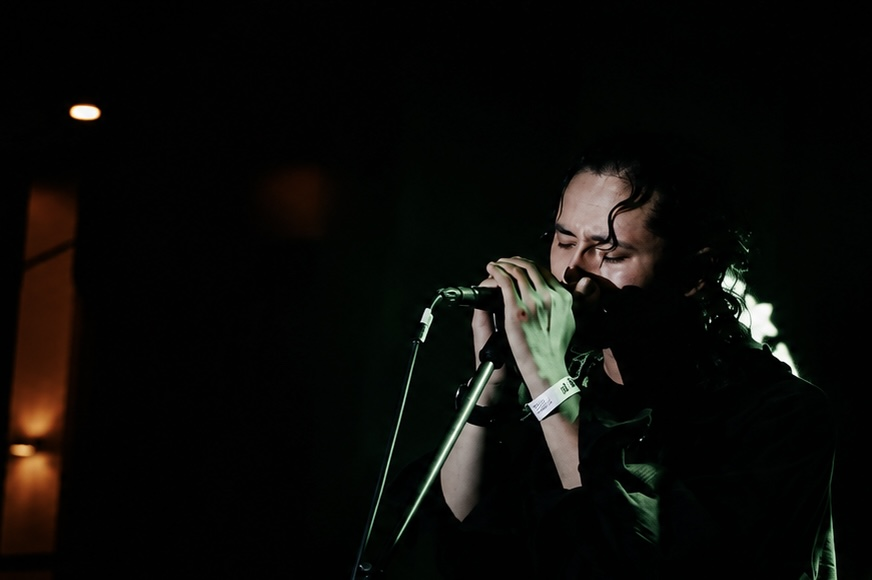
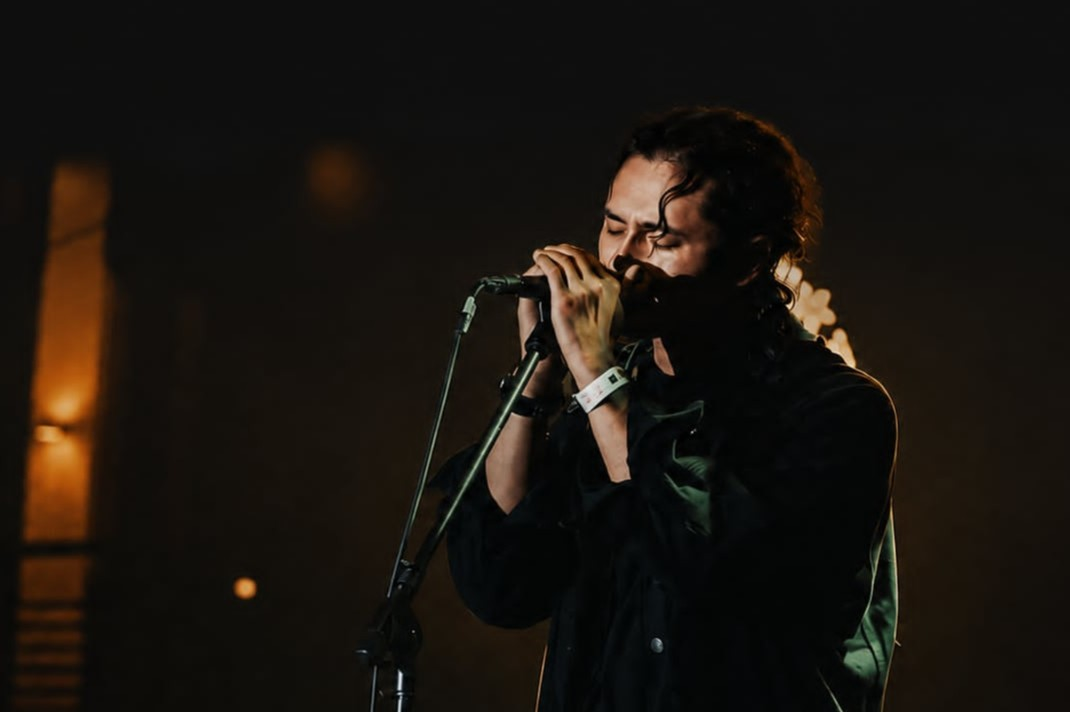
fixed header and added hero section

diff --git a/index.html b/index.html
@@ -26,44 +26,76 @@
     }
   </style>
 </head>
-<body class="bg-background">
 
-<!-- HEADER SECTION -->
-  <header class="m-3">
-    <nav class="text-text flex flex-row justify-between mt-2">
-      <a class="font-primary font-bold" href="">MIZAEL TILOS</a>
-      
-      <div class="relative text-text"> 
-        <input class="hidden peer flex items-center" type="checkbox" name="" id="menu-toggle">
-        <label for="menu-toggle">
-          <i class="fa-solid fa-bars lg:hidden"></i>
+<body class="min-h-screen bg-background text-text">
+
+  <!-- HEADER SECTION-->
+  <header class="relative z-50 m-3">
+    <nav class="flex items-center justify-between text-text">
+      <a class="font-primary text-xs font-bold" href="">MIZAEL TILOS</a>
+
+      <div class="relative">
+        <!-- HAMBURGER ICON -->
+        <input class="peer hidden" type="checkbox" id="menu-toggle">
+        <label class="cursor-pointer text-text lg:hidden" for="menu-toggle">
+          <i class="fa-solid fa-bars"></i>
         </label>
-        <div class="absolute lg:static right-3 top-6 hidden peer-checked:flex lg:flex flex-col lg:flex-row items-end gap-3 lg:gap-10 text-text cursor-pointer   padding-5 border lg:border-0 w-25 lg:w-auto lg:bg-transparent">
-          <a class="hover:text-[var(--color-primary)] hover:underline " href="">DEVELOPER</a>
-          <a class="hover:text-[var(--color-primary)] hover:underline" href="">ACTOR</a>
-          <a class="hover:text-[var(--color-primary)] hover:underline" href="">MUSICIAN</a>
+
+        <!-- NAV LINKS -->
+        <div class="absolute right-0 top-7 hidden w-25 flex-col items-end gap-4 bg-surface p-5 peer-checked:flex lg:static lg:flex lg:w-auto lg:flex-row lg:items-center lg:gap-10 lg:bg-transparent lg:p-0">
+          <a class="text-xs text-text transition-colors duration-1  hover:text-[var(--color-primary)] hover:underline" href="">DEVELOPER</a>
+          <a class="text-xs text-text transition-colors duration-200 hover:text-[var(--color-primary)] hover:underline" href="">ACTOR</a>
+          <a class="text-xs text-text transition-colors duration-200 hover:text-[var(--color-primary)] hover:underline" href="">MUSICIAN</a>
         </div>
       </div>
     </nav>
   </header>
-  
-<!-- HERO SECTION -->
+
+  <!-- HERO SECTION -->
   <main>
-    <div class="relative ">
-      <img class="" src="images/hero-photo.png" alt="mizael">
-      <div class="absolute inset-3 flex flex-col items-start justify-center">
-        <span class="text-text text-4xl font-bold">MIZAEL</span>
-        <span class="text-text text-4xl font-bold">TILOS</span>
-        <span class="text-muted text-xs ">WEB DEVELOPER & CREATIVE</span>
-        <span class="text-muted">I build clean, responsive websites with</span>
-        <span class="text-muted">a focus on thoughtful design and</span>
-        <span class="text-muted">user experience</span>
-        <button class="text-text bg-[var(--color-primary)]">VIEW MY WORK</button>
+    <section class="relative overflow-hidden bg-background">
+
+      <!-- DESKTOP HERO -->
+      <div class="relative hidden min-h-[calc(100vh-60px)] md:block">
+
+        <!-- DESKTOP PHOTO - FULL WIDTH -->
+        <img class="absolute inset-0 h-full w-full object-cover [mask-image:linear-gradient(to_bottom,transparent_0%,black_18%,black_100%)] [-webkit-mask-image:linear-gradient(to_bottom,transparent_0%,black_18%,black_100%)]" 
+        src="images/hero-photo-desktop-view.jpg" 
+        alt="Mizael"
+      >
+        <!-- DESKTOP TEXT - ON TOP OF PHOTO -->
+        <div class="relative z-10 flex min-h-[calc(100vh-60px)] items-center px-12">
+          <div>
+            <h1 class="font-primary text-6xl font-bold leading-[0.9] text-text">MIZAEL<br>TILOS</h1>
+            <p class="mt-5 font-secondary text-xs tracking-[0.35em] text-text">WEB DEVELOPER & CREATIVE</p>
+            <p class="mt-4 max-w-sm font-secondary text-sm leading-relaxed text-text">I build clean, responsive websites with a focus on thoughtful design and user experience.</p>
+            <button class="mt-6 bg-[var(--color-primary)] px-5 py-3 font-secondary text-xs font-medium tracking-wider text-text transition-opacity duration-200 hover:opacity-80">VIEW MY WORK →</button>
+          </div>
+        </div>
       </div>
-    </div>
-     
+
+      <!-- MOBILE HERO -->
+      <div class="block md:hidden">
+
+        <!-- MOBILE CONTENT -->
+        <div class="px-2 pt-6">
+          <h1 class="font-primary text-5xl font-bold leading-[0.9]">MIZAEL<br>TILOS</h1>
+          <p class="mt-3 font-secondary text-[10px] tracking-[0.35em] text-muted font-bold">WEB DEVELOPER & CREATIVE</p>
+          <p class="mt-4 max-w-xs font-secondary text-sm leading-relaxed text-muted">I build clean, responsive websites with a focus on thoughtful design and user experience.</p>
+          <button class="mt-5 bg-[var(--color-primary)] px-8 py-3 font-secondary text-[10px] font-medium tracking-wider text-text transition-opacity duration-200 hover:opacity-80">VIEW MY WORK →</button>
+        </div>
+
+        <!-- MOBILE PHOTO -->
+        <div class="relative bg-background">
+          <img class="block h-[300px] w-full object-cover object-top [mask-image:linear-gradient(to_bottom,transparent_0%,black_18%,black_100%)] [-webkit-mask-image:linear-gradient(to_bottom,transparent_0%,black_18%,black_100%)]" 
+          src="images/hero-photo-mobile-view.jpg" 
+          alt="Mizael">
+        </div>
+
+      </div>
+    </section>
 
   </main>
+  
 
-</body>
 </html>
